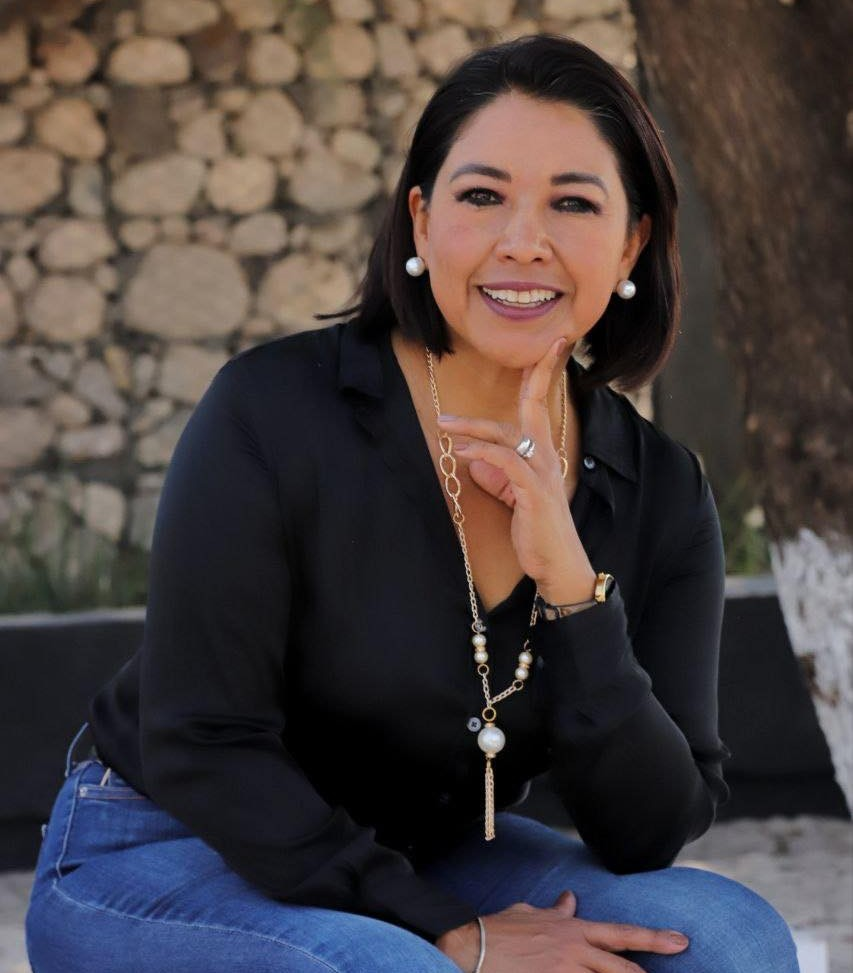
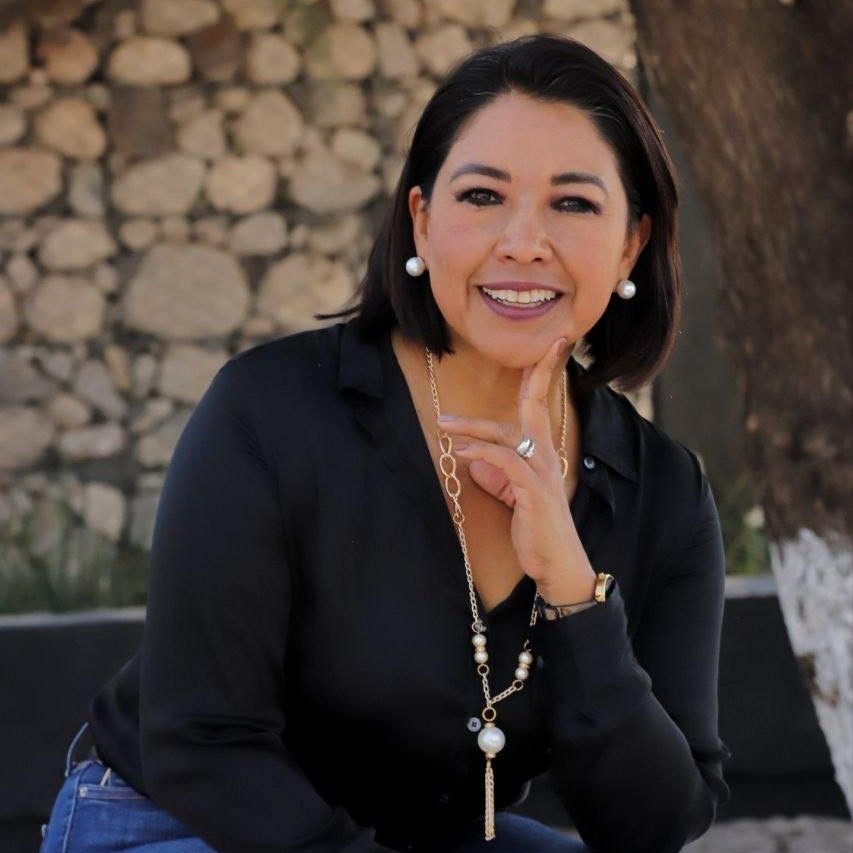
Updates

diff --git a/assets/index-CXXjEYgi.js b/assets/index-CXXjEYgi.js
@@ -14,7 +14,7 @@
 * @vue/runtime-dom v3.5.21
 * (c) 2018-present Yuxi (Evan) You and Vue contributors
 * @license MIT
-**/let Yn;const ui=typeof window<"u"&&window.trustedTypes;if(ui)try{Yn=ui.createPolicy("vue",{createHTML:e=>e})}catch{}const bo=Yn?e=>Yn.createHTML(e):e=>e,Ec="http://www.w3.org/2000/svg",Pc="http://www.w3.org/1998/Math/MathML",Je=typeof document<"u"?document:null,di=Je&&Je.createElement("template"),Oc={insert:(e,t,r)=>{t.insertBefore(e,r||null)},remove:e=>{const t=e.parentNode;t&&t.removeChild(e)},createElement:(e,t,r,n)=>{const a=t==="svg"?Je.createElementNS(Ec,e):t==="mathml"?Je.createElementNS(Pc,e):r?Je.createElement(e,{is:r}):Je.createElement(e);return e==="select"&&n&&n.multiple!=null&&a.setAttribute("multiple",n.multiple),a},createText:e=>Je.createTextNode(e),createComment:e=>Je.createComment(e),setText:(e,t)=>{e.nodeValue=t},setElementText:(e,t)=>{e.textContent=t},parentNode:e=>e.parentNode,nextSibling:e=>e.nextSibling,querySelector:e=>Je.querySelector(e),setScopeId(e,t){e.setAttribute(t,"")},insertStaticContent(e,t,r,n,a,i){const s=r?r.previousSibling:t.lastChild;if(a&&(a===i||a.nextSibling))for(;t.insertBefore(a.cloneNode(!0),r),!(a===i||!(a=a.nextSibling)););else{di.innerHTML=bo(n==="svg"?`<svg>${e}</svg>`:n==="mathml"?`<math>${e}</math>`:e);const o=di.content;if(n==="svg"||n==="mathml"){const l=o.firstChild;for(;l.firstChild;)o.appendChild(l.firstChild);o.removeChild(l)}t.insertBefore(o,r)}return[s?s.nextSibling:t.firstChild,r?r.previousSibling:t.lastChild]}},lt="transition",Gt="animation",dr=Symbol("_vtc"),yo={name:String,type:String,css:{type:Boolean,default:!0},duration:[String,Number,Object],enterFromClass:String,enterActiveClass:String,enterToClass:String,appearFromClass:String,appearActiveClass:String,appearToClass:String,leaveFromClass:String,leaveActiveClass:String,leaveToClass:String},Tc=ce({},Ds,yo),Ic=e=>(e.displayName="Transition",e.props=Tc,e),kc=Ic((e,{slots:t})=>vo(xf,Fc(e),t)),St=(e,t=[])=>{L(e)?e.forEach(r=>r(...t)):e&&e(...t)},hi=e=>e?L(e)?e.some(t=>t.length>1):e.length>1:!1;function Fc(e){const t={};for(const k in e)k in yo||(t[k]=e[k]);if(e.css===!1)return t;const{name:r="v",type:n,duration:a,enterFromClass:i=`${r}-enter-from`,enterActiveClass:s=`${r}-enter-active`,enterToClass:o=`${r}-enter-to`,appearFromClass:l=i,appearActiveClass:u=s,appearToClass:f=o,leaveFromClass:d=`${r}-leave-from`,leaveActiveClass:m=`${r}-leave-active`,leaveToClass:g=`${r}-leave-to`}=e,O=Nc(a),T=O&&O[0],H=O&&O[1],{onBeforeEnter:b,onEnter:S,onEnterCancelled:M,onLeave:I,onLeaveCancelled:D,onBeforeAppear:Z=b,onAppear:ae=S,onAppearCancelled:oe=M}=t,z=(k,te,he,Ke)=>{k._enterCancelled=Ke,At(k,te?f:o),At(k,te?u:s),he&&he()},Y=(k,te)=>{k._isLeaving=!1,At(k,d),At(k,g),At(k,m),te&&te()},re=k=>(te,he)=>{const Ke=k?ae:S,le=()=>z(te,k,he);St(Ke,[te,le]),pi(()=>{At(te,k?l:i),Ge(te,k?f:o),hi(Ke)||mi(te,n,T,le)})};return ce(t,{onBeforeEnter(k){St(b,[k]),Ge(k,i),Ge(k,s)},onBeforeAppear(k){St(Z,[k]),Ge(k,l),Ge(k,u)},onEnter:re(!1),onAppear:re(!0),onLeave(k,te){k._isLeaving=!0;const he=()=>Y(k,te);Ge(k,d),k._enterCancelled?(Ge(k,m),bi()):(bi(),Ge(k,m)),pi(()=>{k._isLeaving&&(At(k,d),Ge(k,g),hi(I)||mi(k,n,H,he))}),St(I,[k,he])},onEnterCancelled(k){z(k,!1,void 0,!0),St(M,[k])},onAppearCancelled(k){z(k,!0,void 0,!0),St(oe,[k])},onLeaveCancelled(k){Y(k),St(D,[k])}})}function Nc(e){if(e==null)return null;if(ee(e))return[Cn(e.enter),Cn(e.leave)];{const t=Cn(e);return[t,t]}}function Cn(e){return Tl(e)}function Ge(e,t){t.split(/\s+/).forEach(r=>r&&e.classList.add(r)),(e[dr]||(e[dr]=new Set)).add(t)}function At(e,t){t.split(/\s+/).forEach(n=>n&&e.classList.remove(n));const r=e[dr];r&&(r.delete(t),r.size||(e[dr]=void 0))}function pi(e){requestAnimationFrame(()=>{requestAnimationFrame(e)})}let Mc=0;function mi(e,t,r,n){const a=e._endId=++Mc,i=()=>{a===e._endId&&n()};if(r!=null)return setTimeout(i,r);const{type:s,timeout:o,propCount:l}=jc(e,t);if(!s)return n();const u=s+"end";let f=0;const d=()=>{e.removeEventListener(u,m),i()},m=g=>{g.target===e&&++f>=l&&d()};setTimeout(()=>{f<l&&d()},o+1),e.addEventListener(u,m)}function jc(e,t){const r=window.getComputedStyle(e),n=O=>(r[O]||"").split(", "),a=n(`${lt}Delay`),i=n(`${lt}Duration`),s=gi(a,i),o=n(`${Gt}Delay`),l=n(`${Gt}Duration`),u=gi(o,l);let f=null,d=0,m=0;t===lt?s>0&&(f=lt,d=s,m=i.length):t===Gt?u>0&&(f=Gt,d=u,m=l.length):(d=Math.max(s,u),f=d>0?s>u?lt:Gt:null,m=f?f===lt?i.length:l.length:0);const g=f===lt&&/\b(?:transform|all)(?:,|$)/.test(n(`${lt}Property`).toString());return{type:f,timeout:d,propCount:m,hasTransform:g}}function gi(e,t){for(;e.length<t.length;)e=e.concat(e);return Math.max(...t.map((r,n)=>vi(r)+vi(e[n])))}function vi(e){return e==="auto"?0:Number(e.slice(0,-1).replace(",","."))*1e3}function bi(){return document.body.offsetHeight}function Lc(e,t,r){const n=e[dr];n&&(t=(t?[t,...n]:[...n]).join(" ")),t==null?e.removeAttribute("class"):r?e.setAttribute("class",t):e.className=t}const yi=Symbol("_vod"),$c=Symbol("_vsh"),Rc=Symbol(""),Dc=/(?:^|;)\s*display\s*:/;function zc(e,t,r){const n=e.style,a=ie(r);let i=!1;if(r&&!a){if(t)if(ie(t))for(const s of t.split(";")){const o=s.slice(0,s.indexOf(":")).trim();r[o]==null&&Fr(n,o,"")}else for(const s in t)r[s]==null&&Fr(n,s,"");for(const s in r)s==="display"&&(i=!0),Fr(n,s,r[s])}else if(a){if(t!==r){const s=n[Rc];s&&(r+=";"+s),n.cssText=r,i=Dc.test(r)}}else t&&e.removeAttribute("style");yi in e&&(e[yi]=i?n.display:"",e[$c]&&(n.display="none"))}const xi=/\s*!important$/;function Fr(e,t,r){if(L(r))r.forEach(n=>Fr(e,t,n));else if(r==null&&(r=""),t.startsWith("--"))e.setProperty(t,r);else{const n=Hc(e,t);xi.test(r)?e.setProperty(kt(n),r.replace(xi,""),"important"):e[n]=r}}const _i=["Webkit","Moz","ms"],En={};function Hc(e,t){const r=En[t];if(r)return r;let n=ke(t);if(n!=="filter"&&n in e)return En[t]=n;n=Zr(n);for(let a=0;a<_i.length;a++){const i=_i[a]+n;if(i in e)return En[t]=i}return t}const wi="http://www.w3.org/1999/xlink";function Si(e,t,r,n,a,i=jl(t)){n&&t.startsWith("xlink:")?r==null?e.removeAttributeNS(wi,t.slice(6,t.length)):e.setAttributeNS(wi,t,r):r==null||i&&!hs(r)?e.removeAttribute(t):e.setAttribute(t,i?"":bt(r)?String(r):r)}function Ai(e,t,r,n,a){if(t==="innerHTML"||t==="textContent"){r!=null&&(e[t]=t==="innerHTML"?bo(r):r);return}const i=e.tagName;if(t==="value"&&i!=="PROGRESS"&&!i.includes("-")){const o=i==="OPTION"?e.getAttribute("value")||"":e.value,l=r==null?e.type==="checkbox"?"on":"":String(r);(o!==l||!("_value"in e))&&(e.value=l),r==null&&e.removeAttribute(t),e._value=r;return}let s=!1;if(r===""||r==null){const o=typeof e[t];o==="boolean"?r=hs(r):r==null&&o==="string"?(r="",s=!0):o==="number"&&(r=0,s=!0)}try{e[t]=r}catch{}s&&e.removeAttribute(a||t)}function Wc(e,t,r,n){e.addEventListener(t,r,n)}function Bc(e,t,r,n){e.removeEventListener(t,r,n)}const Ci=Symbol("_vei");function Uc(e,t,r,n,a=null){const i=e[Ci]||(e[Ci]={}),s=i[t];if(n&&s)s.value=n;else{const[o,l]=Vc(t);if(n){const u=i[t]=Gc(n,a);Wc(e,o,u,l)}else s&&(Bc(e,o,s,l),i[t]=void 0)}}const Ei=/(?:Once|Passive|Capture)$/;function Vc(e){let t;if(Ei.test(e)){t={};let n;for(;n=e.match(Ei);)e=e.slice(0,e.length-n[0].length),t[n[0].toLowerCase()]=!0}return[e[2]===":"?e.slice(3):kt(e.slice(2)),t]}let Pn=0;const Kc=Promise.resolve(),Yc=()=>Pn||(Kc.then(()=>Pn=0),Pn=Date.now());function Gc(e,t){const r=n=>{if(!n._vts)n._vts=Date.now();else if(n._vts<=r.attached)return;je(qc(n,r.value),t,5,[n])};return r.value=e,r.attached=Yc(),r}function qc(e,t){if(L(t)){const r=e.stopImmediatePropagation;return e.stopImmediatePropagation=()=>{r.call(e),e._stopped=!0},t.map(n=>a=>!a._stopped&&n&&n(a))}else return t}const Pi=e=>e.charCodeAt(0)===111&&e.charCodeAt(1)===110&&e.charCodeAt(2)>96&&e.charCodeAt(2)<123,Xc=(e,t,r,n,a,i)=>{const s=a==="svg";t==="class"?Lc(e,n,s):t==="style"?zc(e,r,n):qr(t)?ua(t)||Uc(e,t,r,n,i):(t[0]==="."?(t=t.slice(1),!0):t[0]==="^"?(t=t.slice(1),!1):Jc(e,t,n,s))?(Ai(e,t,n),!e.tagName.includes("-")&&(t==="value"||t==="checked"||t==="selected")&&Si(e,t,n,s,i,t!=="value")):e._isVueCE&&(/[A-Z]/.test(t)||!ie(n))?Ai(e,ke(t),n,i,t):(t==="true-value"?e._trueValue=n:t==="false-value"&&(e._falseValue=n),Si(e,t,n,s))};function Jc(e,t,r,n){if(n)return!!(t==="innerHTML"||t==="textContent"||t in e&&Pi(t)&&R(r));if(t==="spellcheck"||t==="draggable"||t==="translate"||t==="autocorrect"||t==="form"||t==="list"&&e.tagName==="INPUT"||t==="type"&&e.tagName==="TEXTAREA")return!1;if(t==="width"||t==="height"){const a=e.tagName;if(a==="IMG"||a==="VIDEO"||a==="CANVAS"||a==="SOURCE")return!1}return Pi(t)&&ie(r)?!1:t in e}const Zc=ce({patchProp:Xc},Oc);let Oi;function Qc(){return Oi||(Oi=qf(Zc))}const eu=((...e)=>{const t=Qc().createApp(...e),{mount:r}=t;return t.mount=n=>{const a=ru(n);if(!a)return;const i=t._component;!R(i)&&!i.render&&!i.template&&(i.template=a.innerHTML),a.nodeType===1&&(a.textContent="");const s=r(a,!1,tu(a));return a instanceof Element&&(a.removeAttribute("v-cloak"),a.setAttribute("data-v-app","")),s},t});function tu(e){if(e instanceof SVGElement)return"svg";if(typeof MathMLElement=="function"&&e instanceof MathMLElement)return"mathml"}function ru(e){return ie(e)?document.querySelector(e):e}const nu={class:"bg-white text-(--primary) p-4 font-italic flex flex-col-2 items-center md:flex-row md:justify-between md:px-20 xl:px-30"},au={class:"text-xl flex w-full align-center text-(--primary) justify-end"},iu={class:"hidden md:block"},su={class:"flex flex-row space-x-6"},ou=["href"],lu={class:"md:hidden flex items-center gap-4"},fu={key:"close",class:"text-2xl text-amber-50"},cu={key:"open",class:"text-2xl z-30"},uu={class:"flex flex-col space-y-4"},du=["href","onClick"],hu=Sa({__name:"header",setup(e){const t=Qe(()=>[{name:"Inicio",href:"#home"},{name:"Acerca de mí",href:"#about"},{name:"Mi Actualidad",href:"#social"},{name:"Contacta me",href:"#contact"}]),r=Pr(!1),n=a=>{r.value=!1;const i=document.querySelector(a);i&&i.scrollIntoView({behavior:"smooth"})};return(a,i)=>{const s=Ys("font-awesome-icon");return qe(),Xe("header",nu,[i[1]||(i[1]=se("div",{class:"flex w-full items-center"},[se("h1",{class:"text-xl md:text-2xl font-bold"},"Erika Díaz Villalón")],-1)),se("div",au,[se("nav",iu,[se("ul",su,[(qe(!0),Xe(Ce,null,ei(t.value,o=>(qe(),Xe("li",{key:o.name,class:"xl:text-lg text-xs"},[se("a",{href:o.href,class:"block ease-linear transition duration-300 hover:text-[var(--accent)] font-inter font-bold italic underline"},Ln(o.name),9,ou)]))),128))])]),se("div",lu,[se("button",{type:"button",class:"block focus:outline-none z-30",onClick:i[0]||(i[0]=o=>r.value=!r.value)},[fe(kc,{name:"fade",mode:"out-in"},{default:$s(()=>[r.value?(qe(),Xe("span",fu,[fe(s,{icon:"fa-solid fa-xmark",size:"2x"})])):(qe(),Xe("span",cu,[fe(s,{icon:"fa-solid fa-bars text-white",size:"2x"})]))]),_:1})])]),se("nav",{class:tn(["fixed inset-0 z-20 flex flex-col items-center justify-center bg-[#000000]/90 md:hidden",r.value?"block":"hidden"])},[se("ul",uu,[(qe(!0),Xe(Ce,null,ei(t.value,o=>(qe(),Xe("li",{key:o.name,class:"text-lg text-[var(--background)]"},[se("a",{href:o.href,class:"block ease-linear text-2xl transition duration-300 hover:text-[var(--accent)]",onClick:l=>n(o.href)},Ln(o.name),9,du)]))),128))])],2)])])}}}),fn=(e,t)=>{const r=e.__vccOpts||e;for(const[n,a]of t)r[n]=a;return r},pu=fn(hu,[["__scopeId","data-v-46d65932"]]),mu="/Erika-website/Erika.jpg",gu={},vu={class:"flex flex-col justify-center items-center text-center text-[var(--text)] parallax"},bu={class:"bg-white rounded-lg shadow-lg align-center flex flex-col gap-3 p-4 m-8 md:flex-row md:gap-6 md:mb-0 xl:grid xl:grid-cols-2 xl:p-8 xl:w-6/10 xl:h-7/10"},yu={class:"flex flex-col justify-center text-(--primary) text-left p-2"},xu={class:"grid grid-cols-3 mt-6 justify-start items-center gap-1 w-2/4 px-1"};function _u(e,t){const r=Ys("font-awesome-icon");return qe(),Xe("section",vu,[se("div",bu,[t[2]||(t[2]=se("div",{class:"flex justify-center items-center"},[se("img",{src:mu,alt:"Foto de Erika",class:"h-8/10 object-cover"})],-1)),se("div",yu,[t[0]||(t[0]=ho('<h1 class="text-2xl md:text-4xl font-bold mb-0 md:mb-4" data-v-32cc1380>Erika Díaz Villalón</h1><p class="text-lg md:text-3xl" data-v-32cc1380>Abogada</p><p class="text-2xl md:text-5xl font-bold" data-v-32cc1380>Líder social</p><div class="h-1 my-4 bg-(--primary) w-8/10 rounded-lg" data-v-32cc1380></div><p class="text-sm md:text-md text-(--text)" data-v-32cc1380> Las cosas lindas que me están pasando las acepto y agradezco con amor </p>',5)),se("div",xu,[fe(r,{icon:"fa-brands fa-square-facebook",size:"2x",class:"text-(--primary) hover:text-[var(--accent)] cursor-pointer transition duration-300 ease-linear"}),fe(r,{icon:"fa-brands fa-instagram",size:"2x",class:"text-(--primary) hover:text-[var(--accent)] cursor-pointer transition duration-300 ease-linear"}),fe(r,{icon:"fa-brands fa-x-twitter",size:"2x",class:"text-(--primary) hover:text-[var(--accent)] cursor-pointer transition duration-300 ease-linear"})]),t[1]||(t[1]=se("p",{class:"mt-6 text-sm md:text-2xl text-(--text) underline font-inter italic cursor-pointer hover:text-[var(--accent)] transition duration-300 ease-linear"}," Acerca de mi ",-1))])])])}const wu=fn(gu,[["render",_u],["__scopeId","data-v-32cc1380"]]),Su={};function Au(e,t){return t[0]||(t[0]=ho('<section class="w-full h-120 flex flex-col md:flex-row justify-center items-center text-[var(--text)] gap-0 text-left" data-v-d59cb76f><div class="bg-(--primary) text-white w-full h-full flex items-center justify-center" data-v-d59cb76f><div class="w-1/2" data-v-d59cb76f><p class="w-full font-light" data-v-d59cb76f>Sobre mi</p><h2 class="w-full text-3xl font-bold underline hover:text-gray-300 transition duration-300" data-v-d59cb76f>Biografía &gt;</h2></div></div><div class="bg-(--secondary) text-white w-full h-full flex items-center justify-center" data-v-d59cb76f><div class="w-1/2" data-v-d59cb76f><p class="w-full font-light" data-v-d59cb76f>Trayectoria y</p><h2 class="w-full text-3xl font-bold underline hover:text-gray-300 transition duration-300" data-v-d59cb76f>Profesional &gt;</h2></div></div><div class="bg-(--accent) text-white w-full h-full flex items-center justify-center" data-v-d59cb76f><div class="w-1/2" data-v-d59cb76f><p class="w-full font-light" data-v-d59cb76f>Publicaciones y</p><h2 class="w-full text-3xl font-bold underline hover:text-gray-300 transition duration-300" data-v-d59cb76f>Medios &gt;</h2></div></div></section><section class="h-130 w-full parallax md:bg-center bg-position-[bottom:30%]" data-v-d59cb76f></section>',2))}const Cu=fn(Su,[["render",Au],["__scopeId","data-v-d59cb76f"]]),Eu=Sa({__name:"App",setup(e){const t=Pr(null),r=Pr(null),n=Pr(0),a=Qe(()=>({height:`calc(100vh - ${n.value}px)`})),i=()=>{t.value&&(n.value=t.value.$el.offsetHeight)};return Aa(()=>{i(),window.addEventListener("resize",i)}),Ca(()=>{window.removeEventListener("resize",i)}),(s,o)=>(qe(),Xe(Ce,null,[fe(pu,{ref_key:"HeaderRef",ref:t},null,512),fe(wu,{ref_key:"HeroSectionRef",ref:r,style:en(a.value)},null,8,["style"]),fe(Cu)],64))}}),Pu=fn(Eu,[["__scopeId","data-v-4a465e86"]]);/*!
+**/let Yn;const ui=typeof window<"u"&&window.trustedTypes;if(ui)try{Yn=ui.createPolicy("vue",{createHTML:e=>e})}catch{}const bo=Yn?e=>Yn.createHTML(e):e=>e,Ec="http://www.w3.org/2000/svg",Pc="http://www.w3.org/1998/Math/MathML",Je=typeof document<"u"?document:null,di=Je&&Je.createElement("template"),Oc={insert:(e,t,r)=>{t.insertBefore(e,r||null)},remove:e=>{const t=e.parentNode;t&&t.removeChild(e)},createElement:(e,t,r,n)=>{const a=t==="svg"?Je.createElementNS(Ec,e):t==="mathml"?Je.createElementNS(Pc,e):r?Je.createElement(e,{is:r}):Je.createElement(e);return e==="select"&&n&&n.multiple!=null&&a.setAttribute("multiple",n.multiple),a},createText:e=>Je.createTextNode(e),createComment:e=>Je.createComment(e),setText:(e,t)=>{e.nodeValue=t},setElementText:(e,t)=>{e.textContent=t},parentNode:e=>e.parentNode,nextSibling:e=>e.nextSibling,querySelector:e=>Je.querySelector(e),setScopeId(e,t){e.setAttribute(t,"")},insertStaticContent(e,t,r,n,a,i){const s=r?r.previousSibling:t.lastChild;if(a&&(a===i||a.nextSibling))for(;t.insertBefore(a.cloneNode(!0),r),!(a===i||!(a=a.nextSibling)););else{di.innerHTML=bo(n==="svg"?`<svg>${e}</svg>`:n==="mathml"?`<math>${e}</math>`:e);const o=di.content;if(n==="svg"||n==="mathml"){const l=o.firstChild;for(;l.firstChild;)o.appendChild(l.firstChild);o.removeChild(l)}t.insertBefore(o,r)}return[s?s.nextSibling:t.firstChild,r?r.previousSibling:t.lastChild]}},lt="transition",Gt="animation",dr=Symbol("_vtc"),yo={name:String,type:String,css:{type:Boolean,default:!0},duration:[String,Number,Object],enterFromClass:String,enterActiveClass:String,enterToClass:String,appearFromClass:String,appearActiveClass:String,appearToClass:String,leaveFromClass:String,leaveActiveClass:String,leaveToClass:String},Tc=ce({},Ds,yo),Ic=e=>(e.displayName="Transition",e.props=Tc,e),kc=Ic((e,{slots:t})=>vo(xf,Fc(e),t)),St=(e,t=[])=>{L(e)?e.forEach(r=>r(...t)):e&&e(...t)},hi=e=>e?L(e)?e.some(t=>t.length>1):e.length>1:!1;function Fc(e){const t={};for(const k in e)k in yo||(t[k]=e[k]);if(e.css===!1)return t;const{name:r="v",type:n,duration:a,enterFromClass:i=`${r}-enter-from`,enterActiveClass:s=`${r}-enter-active`,enterToClass:o=`${r}-enter-to`,appearFromClass:l=i,appearActiveClass:u=s,appearToClass:f=o,leaveFromClass:d=`${r}-leave-from`,leaveActiveClass:m=`${r}-leave-active`,leaveToClass:g=`${r}-leave-to`}=e,O=Nc(a),T=O&&O[0],H=O&&O[1],{onBeforeEnter:b,onEnter:S,onEnterCancelled:M,onLeave:I,onLeaveCancelled:D,onBeforeAppear:Z=b,onAppear:ae=S,onAppearCancelled:oe=M}=t,z=(k,te,he,Ke)=>{k._enterCancelled=Ke,At(k,te?f:o),At(k,te?u:s),he&&he()},Y=(k,te)=>{k._isLeaving=!1,At(k,d),At(k,g),At(k,m),te&&te()},re=k=>(te,he)=>{const Ke=k?ae:S,le=()=>z(te,k,he);St(Ke,[te,le]),pi(()=>{At(te,k?l:i),Ge(te,k?f:o),hi(Ke)||mi(te,n,T,le)})};return ce(t,{onBeforeEnter(k){St(b,[k]),Ge(k,i),Ge(k,s)},onBeforeAppear(k){St(Z,[k]),Ge(k,l),Ge(k,u)},onEnter:re(!1),onAppear:re(!0),onLeave(k,te){k._isLeaving=!0;const he=()=>Y(k,te);Ge(k,d),k._enterCancelled?(Ge(k,m),bi()):(bi(),Ge(k,m)),pi(()=>{k._isLeaving&&(At(k,d),Ge(k,g),hi(I)||mi(k,n,H,he))}),St(I,[k,he])},onEnterCancelled(k){z(k,!1,void 0,!0),St(M,[k])},onAppearCancelled(k){z(k,!0,void 0,!0),St(oe,[k])},onLeaveCancelled(k){Y(k),St(D,[k])}})}function Nc(e){if(e==null)return null;if(ee(e))return[Cn(e.enter),Cn(e.leave)];{const t=Cn(e);return[t,t]}}function Cn(e){return Tl(e)}function Ge(e,t){t.split(/\s+/).forEach(r=>r&&e.classList.add(r)),(e[dr]||(e[dr]=new Set)).add(t)}function At(e,t){t.split(/\s+/).forEach(n=>n&&e.classList.remove(n));const r=e[dr];r&&(r.delete(t),r.size||(e[dr]=void 0))}function pi(e){requestAnimationFrame(()=>{requestAnimationFrame(e)})}let Mc=0;function mi(e,t,r,n){const a=e._endId=++Mc,i=()=>{a===e._endId&&n()};if(r!=null)return setTimeout(i,r);const{type:s,timeout:o,propCount:l}=jc(e,t);if(!s)return n();const u=s+"end";let f=0;const d=()=>{e.removeEventListener(u,m),i()},m=g=>{g.target===e&&++f>=l&&d()};setTimeout(()=>{f<l&&d()},o+1),e.addEventListener(u,m)}function jc(e,t){const r=window.getComputedStyle(e),n=O=>(r[O]||"").split(", "),a=n(`${lt}Delay`),i=n(`${lt}Duration`),s=gi(a,i),o=n(`${Gt}Delay`),l=n(`${Gt}Duration`),u=gi(o,l);let f=null,d=0,m=0;t===lt?s>0&&(f=lt,d=s,m=i.length):t===Gt?u>0&&(f=Gt,d=u,m=l.length):(d=Math.max(s,u),f=d>0?s>u?lt:Gt:null,m=f?f===lt?i.length:l.length:0);const g=f===lt&&/\b(?:transform|all)(?:,|$)/.test(n(`${lt}Property`).toString());return{type:f,timeout:d,propCount:m,hasTransform:g}}function gi(e,t){for(;e.length<t.length;)e=e.concat(e);return Math.max(...t.map((r,n)=>vi(r)+vi(e[n])))}function vi(e){return e==="auto"?0:Number(e.slice(0,-1).replace(",","."))*1e3}function bi(){return document.body.offsetHeight}function Lc(e,t,r){const n=e[dr];n&&(t=(t?[t,...n]:[...n]).join(" ")),t==null?e.removeAttribute("class"):r?e.setAttribute("class",t):e.className=t}const yi=Symbol("_vod"),$c=Symbol("_vsh"),Rc=Symbol(""),Dc=/(?:^|;)\s*display\s*:/;function zc(e,t,r){const n=e.style,a=ie(r);let i=!1;if(r&&!a){if(t)if(ie(t))for(const s of t.split(";")){const o=s.slice(0,s.indexOf(":")).trim();r[o]==null&&Fr(n,o,"")}else for(const s in t)r[s]==null&&Fr(n,s,"");for(const s in r)s==="display"&&(i=!0),Fr(n,s,r[s])}else if(a){if(t!==r){const s=n[Rc];s&&(r+=";"+s),n.cssText=r,i=Dc.test(r)}}else t&&e.removeAttribute("style");yi in e&&(e[yi]=i?n.display:"",e[$c]&&(n.display="none"))}const xi=/\s*!important$/;function Fr(e,t,r){if(L(r))r.forEach(n=>Fr(e,t,n));else if(r==null&&(r=""),t.startsWith("--"))e.setProperty(t,r);else{const n=Hc(e,t);xi.test(r)?e.setProperty(kt(n),r.replace(xi,""),"important"):e[n]=r}}const _i=["Webkit","Moz","ms"],En={};function Hc(e,t){const r=En[t];if(r)return r;let n=ke(t);if(n!=="filter"&&n in e)return En[t]=n;n=Zr(n);for(let a=0;a<_i.length;a++){const i=_i[a]+n;if(i in e)return En[t]=i}return t}const wi="http://www.w3.org/1999/xlink";function Si(e,t,r,n,a,i=jl(t)){n&&t.startsWith("xlink:")?r==null?e.removeAttributeNS(wi,t.slice(6,t.length)):e.setAttributeNS(wi,t,r):r==null||i&&!hs(r)?e.removeAttribute(t):e.setAttribute(t,i?"":bt(r)?String(r):r)}function Ai(e,t,r,n,a){if(t==="innerHTML"||t==="textContent"){r!=null&&(e[t]=t==="innerHTML"?bo(r):r);return}const i=e.tagName;if(t==="value"&&i!=="PROGRESS"&&!i.includes("-")){const o=i==="OPTION"?e.getAttribute("value")||"":e.value,l=r==null?e.type==="checkbox"?"on":"":String(r);(o!==l||!("_value"in e))&&(e.value=l),r==null&&e.removeAttribute(t),e._value=r;return}let s=!1;if(r===""||r==null){const o=typeof e[t];o==="boolean"?r=hs(r):r==null&&o==="string"?(r="",s=!0):o==="number"&&(r=0,s=!0)}try{e[t]=r}catch{}s&&e.removeAttribute(a||t)}function Wc(e,t,r,n){e.addEventListener(t,r,n)}function Bc(e,t,r,n){e.removeEventListener(t,r,n)}const Ci=Symbol("_vei");function Uc(e,t,r,n,a=null){const i=e[Ci]||(e[Ci]={}),s=i[t];if(n&&s)s.value=n;else{const[o,l]=Vc(t);if(n){const u=i[t]=Gc(n,a);Wc(e,o,u,l)}else s&&(Bc(e,o,s,l),i[t]=void 0)}}const Ei=/(?:Once|Passive|Capture)$/;function Vc(e){let t;if(Ei.test(e)){t={};let n;for(;n=e.match(Ei);)e=e.slice(0,e.length-n[0].length),t[n[0].toLowerCase()]=!0}return[e[2]===":"?e.slice(3):kt(e.slice(2)),t]}let Pn=0;const Kc=Promise.resolve(),Yc=()=>Pn||(Kc.then(()=>Pn=0),Pn=Date.now());function Gc(e,t){const r=n=>{if(!n._vts)n._vts=Date.now();else if(n._vts<=r.attached)return;je(qc(n,r.value),t,5,[n])};return r.value=e,r.attached=Yc(),r}function qc(e,t){if(L(t)){const r=e.stopImmediatePropagation;return e.stopImmediatePropagation=()=>{r.call(e),e._stopped=!0},t.map(n=>a=>!a._stopped&&n&&n(a))}else return t}const Pi=e=>e.charCodeAt(0)===111&&e.charCodeAt(1)===110&&e.charCodeAt(2)>96&&e.charCodeAt(2)<123,Xc=(e,t,r,n,a,i)=>{const s=a==="svg";t==="class"?Lc(e,n,s):t==="style"?zc(e,r,n):qr(t)?ua(t)||Uc(e,t,r,n,i):(t[0]==="."?(t=t.slice(1),!0):t[0]==="^"?(t=t.slice(1),!1):Jc(e,t,n,s))?(Ai(e,t,n),!e.tagName.includes("-")&&(t==="value"||t==="checked"||t==="selected")&&Si(e,t,n,s,i,t!=="value")):e._isVueCE&&(/[A-Z]/.test(t)||!ie(n))?Ai(e,ke(t),n,i,t):(t==="true-value"?e._trueValue=n:t==="false-value"&&(e._falseValue=n),Si(e,t,n,s))};function Jc(e,t,r,n){if(n)return!!(t==="innerHTML"||t==="textContent"||t in e&&Pi(t)&&R(r));if(t==="spellcheck"||t==="draggable"||t==="translate"||t==="autocorrect"||t==="form"||t==="list"&&e.tagName==="INPUT"||t==="type"&&e.tagName==="TEXTAREA")return!1;if(t==="width"||t==="height"){const a=e.tagName;if(a==="IMG"||a==="VIDEO"||a==="CANVAS"||a==="SOURCE")return!1}return Pi(t)&&ie(r)?!1:t in e}const Zc=ce({patchProp:Xc},Oc);let Oi;function Qc(){return Oi||(Oi=qf(Zc))}const eu=((...e)=>{const t=Qc().createApp(...e),{mount:r}=t;return t.mount=n=>{const a=ru(n);if(!a)return;const i=t._component;!R(i)&&!i.render&&!i.template&&(i.template=a.innerHTML),a.nodeType===1&&(a.textContent="");const s=r(a,!1,tu(a));return a instanceof Element&&(a.removeAttribute("v-cloak"),a.setAttribute("data-v-app","")),s},t});function tu(e){if(e instanceof SVGElement)return"svg";if(typeof MathMLElement=="function"&&e instanceof MathMLElement)return"mathml"}function ru(e){return ie(e)?document.querySelector(e):e}const nu={class:"bg-white text-(--primary) p-4 font-italic flex flex-col-2 items-center md:flex-row md:justify-between md:px-20 xl:px-30"},au={class:"text-xl flex w-full align-center text-(--primary) justify-end"},iu={class:"hidden md:block"},su={class:"flex flex-row space-x-6"},ou=["href"],lu={class:"md:hidden flex items-center gap-4"},fu={key:"close",class:"text-2xl text-amber-50"},cu={key:"open",class:"text-2xl z-30"},uu={class:"flex flex-col space-y-4"},du=["href","onClick"],hu=Sa({__name:"header",setup(e){const t=Qe(()=>[{name:"Inicio",href:"#home"},{name:"Acerca de mí",href:"#about"},{name:"Mi Actualidad",href:"#social"},{name:"Contacta me",href:"#contact"}]),r=Pr(!1),n=a=>{r.value=!1;const i=document.querySelector(a);i&&i.scrollIntoView({behavior:"smooth"})};return(a,i)=>{const s=Ys("font-awesome-icon");return qe(),Xe("header",nu,[i[1]||(i[1]=se("div",{class:"flex w-full items-center"},[se("h1",{class:"text-xl md:text-2xl font-bold"},"Erika Díaz Villalón")],-1)),se("div",au,[se("nav",iu,[se("ul",su,[(qe(!0),Xe(Ce,null,ei(t.value,o=>(qe(),Xe("li",{key:o.name,class:"xl:text-lg text-xs"},[se("a",{href:o.href,class:"block ease-linear transition duration-300 hover:text-[var(--accent)] font-inter font-bold italic underline"},Ln(o.name),9,ou)]))),128))])]),se("div",lu,[se("button",{type:"button",class:"block focus:outline-none z-30",onClick:i[0]||(i[0]=o=>r.value=!r.value)},[fe(kc,{name:"fade",mode:"out-in"},{default:$s(()=>[r.value?(qe(),Xe("span",fu,[fe(s,{icon:"fa-solid fa-xmark",size:"2x"})])):(qe(),Xe("span",cu,[fe(s,{icon:"fa-solid fa-bars text-white",size:"2x"})]))]),_:1})])]),se("nav",{class:tn(["fixed inset-0 z-20 flex flex-col items-center justify-center bg-[#000000]/90 md:hidden",r.value?"block":"hidden"])},[se("ul",uu,[(qe(!0),Xe(Ce,null,ei(t.value,o=>(qe(),Xe("li",{key:o.name,class:"text-lg text-[var(--background)]"},[se("a",{href:o.href,class:"block ease-linear text-2xl transition duration-300 hover:text-[var(--accent)]",onClick:l=>n(o.href)},Ln(o.name),9,du)]))),128))])],2)])])}}}),fn=(e,t)=>{const r=e.__vccOpts||e;for(const[n,a]of t)r[n]=a;return r},pu=fn(hu,[["__scopeId","data-v-46d65932"]]),mu="/Erika-website/Erika.jpg",gu={},vu={class:"flex flex-col justify-center items-center text-center text-[var(--text)] p-4 parallax"},bu={class:"bg-white shadow-lg items-center justify-center rounded-lg flex flex-col md:flex-row gap-4 p-6 py-6 md:p-8 xl:h-fit xl:w-3/5 md:h-fit md:w-8/10 sm:h-8/10 sm:w-6/10 h-fit w-full"},yu={class:"flex flex-col flex-1 justify-center text-[var(--primary)] text-left gap-1 md:gap-4 px-4 h-full"},xu={class:"flex justify-start items-center gap-4 m-1 text-center"};function _u(e,t){const r=Ys("font-awesome-icon");return qe(),Xe("section",vu,[se("div",bu,[t[2]||(t[2]=se("div",{class:"flex-1 flex h-fit justify-center items-center"},[se("img",{src:mu,alt:"Foto de Erika",class:"object-contain w-56 md:w-64 xl:w-full xl:h-full"})],-1)),se("div",yu,[t[0]||(t[0]=ho('<h1 class="text-xl md:text-4xl font-bold mb-0" data-v-1942facc>Erika Díaz Villalón</h1><p class="text-lg md:text-3xl text-[var(--text)]" data-v-1942facc>Abogada</p><p class="text-2xl md:text-5xl font-bold" data-v-1942facc>Líder social</p><div class="h-1 bg-[var(--primary)] w-8/10" data-v-1942facc></div><p class="text-xs md:text-base text-[var(--text)]" data-v-1942facc> Las cosas lindas que me están pasando las acepto y agradezco con amor </p>',5)),se("div",xu,[fe(r,{icon:"fa-brands fa-square-facebook",size:"2x",class:"text-[var(--primary)] hover:text-[var(--accent)] cursor-pointer transition duration-300 ease-linear"}),fe(r,{icon:"fa-brands fa-instagram",size:"2x",class:"text-[var(--primary)] hover:text-[var(--accent)] cursor-pointer transition duration-300 ease-linear"}),fe(r,{icon:"fa-brands fa-x-twitter",size:"2x",class:"text-[var(--primary)] hover:text-[var(--accent)] cursor-pointer transition duration-300 ease-linear"})]),t[1]||(t[1]=se("p",{class:"text-base md:text-2xl text-[var(--text)] underline font-inter italic cursor-pointer hover:text-[var(--accent)] transition duration-300 ease-linear"}," Acerca de mi ",-1))])])])}const wu=fn(gu,[["render",_u],["__scopeId","data-v-1942facc"]]),Su={};function Au(e,t){return t[0]||(t[0]=ho('<section class="w-full h-120 flex flex-col md:flex-row justify-center items-center text-[var(--text)] gap-0 text-left" data-v-d59cb76f><div class="bg-(--primary) text-white w-full h-full flex items-center justify-center" data-v-d59cb76f><div class="w-1/2" data-v-d59cb76f><p class="w-full font-light" data-v-d59cb76f>Sobre mi</p><h2 class="w-full text-3xl font-bold underline hover:text-gray-300 transition duration-300" data-v-d59cb76f>Biografía &gt;</h2></div></div><div class="bg-(--secondary) text-white w-full h-full flex items-center justify-center" data-v-d59cb76f><div class="w-1/2" data-v-d59cb76f><p class="w-full font-light" data-v-d59cb76f>Trayectoria y</p><h2 class="w-full text-3xl font-bold underline hover:text-gray-300 transition duration-300" data-v-d59cb76f>Profesional &gt;</h2></div></div><div class="bg-(--accent) text-white w-full h-full flex items-center justify-center" data-v-d59cb76f><div class="w-1/2" data-v-d59cb76f><p class="w-full font-light" data-v-d59cb76f>Publicaciones y</p><h2 class="w-full text-3xl font-bold underline hover:text-gray-300 transition duration-300" data-v-d59cb76f>Medios &gt;</h2></div></div></section><section class="h-130 w-full parallax md:bg-center bg-position-[bottom:30%]" data-v-d59cb76f></section>',2))}const Cu=fn(Su,[["render",Au],["__scopeId","data-v-d59cb76f"]]),Eu=Sa({__name:"App",setup(e){const t=Pr(null),r=Pr(null),n=Pr(0),a=Qe(()=>({height:`calc(100vh - ${n.value}px)`,"margin-top":`${n.value}px`})),i=()=>{t.value&&(n.value=t.value.$el.offsetHeight)};return Aa(()=>{i(),window.addEventListener("resize",i)}),Ca(()=>{window.removeEventListener("resize",i)}),(s,o)=>(qe(),Xe(Ce,null,[fe(pu,{ref_key:"HeaderRef",ref:t,class:"header"},null,512),fe(wu,{ref_key:"HeroSectionRef",ref:r,style:en(a.value)},null,8,["style"]),fe(Cu)],64))}}),Pu=fn(Eu,[["__scopeId","data-v-bf862010"]]);/*!
  * Font Awesome Free 7.0.1 by @fontawesome - https://fontawesome.com
  * License - https://fontawesome.com/license/free (Icons: CC BY 4.0, Fonts: SIL OFL 1.1, Code: MIT License)
  * Copyright 2025 Fonticons, Inc.

diff --git a/assets/index-CyH0TvZI.css b/assets/index-CyH0TvZI.css
@@ -1,0 +1,1 @@
+@import"https://fonts.googleapis.com/css2?family=Inter:ital,opsz,wght@0,14..32,100..900;1,14..32,100..900&display=swap";@layer components;/*! tailwindcss v4.1.13 | MIT License | https://tailwindcss.com */@layer properties{@supports (((-webkit-hyphens:none)) and (not (margin-trim:inline))) or ((-moz-orient:inline) and (not (color:rgb(from red r g b)))){*,:before,:after,::backdrop{--tw-rotate-x:initial;--tw-rotate-y:initial;--tw-rotate-z:initial;--tw-skew-x:initial;--tw-skew-y:initial;--tw-space-y-reverse:0;--tw-space-x-reverse:0;--tw-font-weight:initial;--tw-shadow:0 0 #0000;--tw-shadow-color:initial;--tw-shadow-alpha:100%;--tw-inset-shadow:0 0 #0000;--tw-inset-shadow-color:initial;--tw-inset-shadow-alpha:100%;--tw-ring-color:initial;--tw-ring-shadow:0 0 #0000;--tw-inset-ring-color:initial;--tw-inset-ring-shadow:0 0 #0000;--tw-ring-inset:initial;--tw-ring-offset-width:0px;--tw-ring-offset-color:#fff;--tw-ring-offset-shadow:0 0 #0000;--tw-duration:initial;--tw-ease:initial}}}@layer theme{:root,:host{--font-sans:ui-sans-serif,system-ui,sans-serif,"Apple Color Emoji","Segoe UI Emoji","Segoe UI Symbol","Noto Color Emoji";--font-mono:ui-monospace,SFMono-Regular,Menlo,Monaco,Consolas,"Liberation Mono","Courier New",monospace;--color-amber-50:oklch(98.7% .022 95.277);--color-gray-300:oklch(87.2% .01 258.338);--color-white:#fff;--spacing:.25rem;--text-xs:.75rem;--text-xs--line-height:calc(1/.75);--text-sm:.875rem;--text-sm--line-height:calc(1.25/.875);--text-base:1rem;--text-base--line-height: 1.5 ;--text-lg:1.125rem;--text-lg--line-height:calc(1.75/1.125);--text-xl:1.25rem;--text-xl--line-height:calc(1.75/1.25);--text-2xl:1.5rem;--text-2xl--line-height:calc(2/1.5);--text-3xl:1.875rem;--text-3xl--line-height: 1.2 ;--text-4xl:2.25rem;--text-4xl--line-height:calc(2.5/2.25);--text-5xl:3rem;--text-5xl--line-height:1;--font-weight-light:300;--font-weight-bold:700;--radius-lg:.5rem;--default-transition-duration:.15s;--default-transition-timing-function:cubic-bezier(.4,0,.2,1);--default-font-family:var(--font-sans);--default-mono-font-family:var(--font-mono)}}@layer base{*,:after,:before,::backdrop{box-sizing:border-box;border:0 solid;margin:0;padding:0}::file-selector-button{box-sizing:border-box;border:0 solid;margin:0;padding:0}html,:host{-webkit-text-size-adjust:100%;tab-size:4;line-height:1.5;font-family:var(--default-font-family,ui-sans-serif,system-ui,sans-serif,"Apple Color Emoji","Segoe UI Emoji","Segoe UI Symbol","Noto Color Emoji");font-feature-settings:var(--default-font-feature-settings,normal);font-variation-settings:var(--default-font-variation-settings,normal);-webkit-tap-highlight-color:transparent}hr{height:0;color:inherit;border-top-width:1px}abbr:where([title]){-webkit-text-decoration:underline dotted;text-decoration:underline dotted}h1,h2,h3,h4,h5,h6{font-size:inherit;font-weight:inherit}a{color:inherit;-webkit-text-decoration:inherit;text-decoration:inherit}b,strong{font-weight:bolder}code,kbd,samp,pre{font-family:var(--default-mono-font-family,ui-monospace,SFMono-Regular,Menlo,Monaco,Consolas,"Liberation Mono","Courier New",monospace);font-feature-settings:var(--default-mono-font-feature-settings,normal);font-variation-settings:var(--default-mono-font-variation-settings,normal);font-size:1em}small{font-size:80%}sub,sup{vertical-align:baseline;font-size:75%;line-height:0;position:relative}sub{bottom:-.25em}sup{top:-.5em}table{text-indent:0;border-color:inherit;border-collapse:collapse}:-moz-focusring{outline:auto}progress{vertical-align:baseline}summary{display:list-item}ol,ul,menu{list-style:none}img,svg,video,canvas,audio,iframe,embed,object{vertical-align:middle;display:block}img,video{max-width:100%;height:auto}button,input,select,optgroup,textarea{font:inherit;font-feature-settings:inherit;font-variation-settings:inherit;letter-spacing:inherit;color:inherit;opacity:1;background-color:#0000;border-radius:0}::file-selector-button{font:inherit;font-feature-settings:inherit;font-variation-settings:inherit;letter-spacing:inherit;color:inherit;opacity:1;background-color:#0000;border-radius:0}:where(select:is([multiple],[size])) optgroup{font-weight:bolder}:where(select:is([multiple],[size])) optgroup option{padding-inline-start:20px}::file-selector-button{margin-inline-end:4px}::placeholder{opacity:1}@supports (not ((-webkit-appearance:-apple-pay-button))) or (contain-intrinsic-size:1px){::placeholder{color:currentColor}@supports (color:color-mix(in lab,red,red)){::placeholder{color:color-mix(in oklab,currentcolor 50%,transparent)}}}textarea{resize:vertical}::-webkit-search-decoration{-webkit-appearance:none}::-webkit-date-and-time-value{min-height:1lh;text-align:inherit}::-webkit-datetime-edit{display:inline-flex}::-webkit-datetime-edit-fields-wrapper{padding:0}::-webkit-datetime-edit{padding-block:0}::-webkit-datetime-edit-year-field{padding-block:0}::-webkit-datetime-edit-month-field{padding-block:0}::-webkit-datetime-edit-day-field{padding-block:0}::-webkit-datetime-edit-hour-field{padding-block:0}::-webkit-datetime-edit-minute-field{padding-block:0}::-webkit-datetime-edit-second-field{padding-block:0}::-webkit-datetime-edit-millisecond-field{padding-block:0}::-webkit-datetime-edit-meridiem-field{padding-block:0}::-webkit-calendar-picker-indicator{line-height:1}:-moz-ui-invalid{box-shadow:none}button,input:where([type=button],[type=reset],[type=submit]){appearance:button}::file-selector-button{appearance:button}::-webkit-inner-spin-button{height:auto}::-webkit-outer-spin-button{height:auto}[hidden]:where(:not([hidden=until-found])){display:none!important}:root{--text:#0c0317;--background:#f6f2fd;--primary:#48277c;--secondary:#ec87ee;--accent:#e859d3;--font-inter:"Inter",sans-serif}.dark{--text:#f1e8fc;--background:#06020d;--primary:#a383d8;--secondary:#771178;--accent:#a61791}}@layer utilities{.fixed{position:fixed}.inset-0{inset:calc(var(--spacing)*0)}.z-20{z-index:20}.z-30{z-index:30}.m-1{margin:calc(var(--spacing)*1)}.mb-0{margin-bottom:calc(var(--spacing)*0)}.block{display:block}.flex{display:flex}.hidden{display:none}.h-1{height:calc(var(--spacing)*1)}.h-120{height:calc(var(--spacing)*120)}.h-130{height:calc(var(--spacing)*130)}.h-fit{height:fit-content}.h-full{height:100%}.w-1\/2{width:50%}.w-8\/10{width:80%}.w-56{width:calc(var(--spacing)*56)}.w-full{width:100%}.flex-1{flex:1}.transform{transform:var(--tw-rotate-x,)var(--tw-rotate-y,)var(--tw-rotate-z,)var(--tw-skew-x,)var(--tw-skew-y,)}.cursor-pointer{cursor:pointer}.resize{resize:both}.flex-col{flex-direction:column}.flex-row{flex-direction:row}.items-center{align-items:center}.justify-center{justify-content:center}.justify-end{justify-content:flex-end}.justify-start{justify-content:flex-start}.gap-0{gap:calc(var(--spacing)*0)}.gap-1{gap:calc(var(--spacing)*1)}.gap-4{gap:calc(var(--spacing)*4)}:where(.space-y-4>:not(:last-child)){--tw-space-y-reverse:0;margin-block-start:calc(calc(var(--spacing)*4)*var(--tw-space-y-reverse));margin-block-end:calc(calc(var(--spacing)*4)*calc(1 - var(--tw-space-y-reverse)))}:where(.space-x-6>:not(:last-child)){--tw-space-x-reverse:0;margin-inline-start:calc(calc(var(--spacing)*6)*var(--tw-space-x-reverse));margin-inline-end:calc(calc(var(--spacing)*6)*calc(1 - var(--tw-space-x-reverse)))}.rounded-lg{border-radius:var(--radius-lg)}.bg-\(--accent\){background-color:var(--accent)}.bg-\(--primary\){background-color:var(--primary)}.bg-\(--secondary\){background-color:var(--secondary)}.bg-\[\#000000\]\/90{background-color:oklab(0% none none/.9)}.bg-\[var\(--primary\)\]{background-color:var(--primary)}.bg-white{background-color:var(--color-white)}.bg-position-\[bottom\:30\%\]{background-position:30%}.object-contain{object-fit:contain}.p-4{padding:calc(var(--spacing)*4)}.p-6{padding:calc(var(--spacing)*6)}.px-4{padding-inline:calc(var(--spacing)*4)}.py-6{padding-block:calc(var(--spacing)*6)}.text-center{text-align:center}.text-left{text-align:left}.text-2xl{font-size:var(--text-2xl);line-height:var(--tw-leading,var(--text-2xl--line-height))}.text-3xl{font-size:var(--text-3xl);line-height:var(--tw-leading,var(--text-3xl--line-height))}.text-base{font-size:var(--text-base);line-height:var(--tw-leading,var(--text-base--line-height))}.text-lg{font-size:var(--text-lg);line-height:var(--tw-leading,var(--text-lg--line-height))}.text-sm{font-size:var(--text-sm);line-height:var(--tw-leading,var(--text-sm--line-height))}.text-xl{font-size:var(--text-xl);line-height:var(--tw-leading,var(--text-xl--line-height))}.text-xs{font-size:var(--text-xs);line-height:var(--tw-leading,var(--text-xs--line-height))}.font-bold{--tw-font-weight:var(--font-weight-bold);font-weight:var(--font-weight-bold)}.font-light{--tw-font-weight:var(--font-weight-light);font-weight:var(--font-weight-light)}.text-\(--primary\){color:var(--primary)}.text-\[var\(--background\)\]{color:var(--background)}.text-\[var\(--primary\)\]{color:var(--primary)}.text-\[var\(--text\)\]{color:var(--text)}.text-amber-50{color:var(--color-amber-50)}.text-white{color:var(--color-white)}.italic{font-style:italic}.underline{text-decoration-line:underline}.shadow-lg{--tw-shadow:0 10px 15px -3px var(--tw-shadow-color,#0000001a),0 4px 6px -4px var(--tw-shadow-color,#0000001a);box-shadow:var(--tw-inset-shadow),var(--tw-inset-ring-shadow),var(--tw-ring-offset-shadow),var(--tw-ring-shadow),var(--tw-shadow)}.transition{transition-property:color,background-color,border-color,outline-color,text-decoration-color,fill,stroke,--tw-gradient-from,--tw-gradient-via,--tw-gradient-to,opacity,box-shadow,transform,translate,scale,rotate,filter,-webkit-backdrop-filter,backdrop-filter,display,content-visibility,overlay,pointer-events;transition-timing-function:var(--tw-ease,var(--default-transition-timing-function));transition-duration:var(--tw-duration,var(--default-transition-duration))}.duration-300{--tw-duration:.3s;transition-duration:.3s}.ease-linear{--tw-ease:linear;transition-timing-function:linear}@media (hover:hover){.hover\:text-\[var\(--accent\)\]:hover{color:var(--accent)}.hover\:text-gray-300:hover{color:var(--color-gray-300)}}.focus\:outline-none:focus{--tw-outline-style:none;outline-style:none}@media (min-width:40rem){.sm\:h-8\/10{height:80%}.sm\:w-6\/10{width:60%}}@media (min-width:48rem){.md\:block{display:block}.md\:hidden{display:none}.md\:h-fit{height:fit-content}.md\:w-8\/10{width:80%}.md\:w-64{width:calc(var(--spacing)*64)}.md\:flex-row{flex-direction:row}.md\:justify-between{justify-content:space-between}.md\:gap-4{gap:calc(var(--spacing)*4)}.md\:bg-center{background-position:50%}.md\:p-8{padding:calc(var(--spacing)*8)}.md\:px-20{padding-inline:calc(var(--spacing)*20)}.md\:text-2xl{font-size:var(--text-2xl);line-height:var(--tw-leading,var(--text-2xl--line-height))}.md\:text-3xl{font-size:var(--text-3xl);line-height:var(--tw-leading,var(--text-3xl--line-height))}.md\:text-4xl{font-size:var(--text-4xl);line-height:var(--tw-leading,var(--text-4xl--line-height))}.md\:text-5xl{font-size:var(--text-5xl);line-height:var(--tw-leading,var(--text-5xl--line-height))}.md\:text-base{font-size:var(--text-base);line-height:var(--tw-leading,var(--text-base--line-height))}}@media (min-width:80rem){.xl\:h-fit{height:fit-content}.xl\:h-full{height:100%}.xl\:w-3\/5{width:60%}.xl\:w-full{width:100%}.xl\:px-30{padding-inline:calc(var(--spacing)*30)}.xl\:text-lg{font-size:var(--text-lg);line-height:var(--tw-leading,var(--text-lg--line-height))}}}@property --tw-rotate-x{syntax:"*";inherits:false}@property --tw-rotate-y{syntax:"*";inherits:false}@property --tw-rotate-z{syntax:"*";inherits:false}@property --tw-skew-x{syntax:"*";inherits:false}@property --tw-skew-y{syntax:"*";inherits:false}@property --tw-space-y-reverse{syntax:"*";inherits:false;initial-value:0}@property --tw-space-x-reverse{syntax:"*";inherits:false;initial-value:0}@property --tw-font-weight{syntax:"*";inherits:false}@property --tw-shadow{syntax:"*";inherits:false;initial-value:0 0 #0000}@property --tw-shadow-color{syntax:"*";inherits:false}@property --tw-shadow-alpha{syntax:"<percentage>";inherits:false;initial-value:100%}@property --tw-inset-shadow{syntax:"*";inherits:false;initial-value:0 0 #0000}@property --tw-inset-shadow-color{syntax:"*";inherits:false}@property --tw-inset-shadow-alpha{syntax:"<percentage>";inherits:false;initial-value:100%}@property --tw-ring-color{syntax:"*";inherits:false}@property --tw-ring-shadow{syntax:"*";inherits:false;initial-value:0 0 #0000}@property --tw-inset-ring-color{syntax:"*";inherits:false}@property --tw-inset-ring-shadow{syntax:"*";inherits:false;initial-value:0 0 #0000}@property --tw-ring-inset{syntax:"*";inherits:false}@property --tw-ring-offset-width{syntax:"<length>";inherits:false;initial-value:0}@property --tw-ring-offset-color{syntax:"*";inherits:false;initial-value:#fff}@property --tw-ring-offset-shadow{syntax:"*";inherits:false;initial-value:0 0 #0000}@property --tw-duration{syntax:"*";inherits:false}@property --tw-ease{syntax:"*";inherits:false}.fade-enter-active[data-v-46d65932],.fade-leave-active[data-v-46d65932]{transition:all .3s ease}.fade-enter-from[data-v-46d65932],.fade-leave-to[data-v-46d65932]{opacity:0;transform:scale(.8) rotate(90deg)}.fade-enter-to[data-v-46d65932],.fade-leave-from[data-v-46d65932]{opacity:1;transform:scale(1) rotate(0)}.parallax[data-v-1942facc]{background-image:url(/Erika-website/Carretera.jpg);background-attachment:fixed;background-size:cover;background-position:center}.parallax[data-v-d59cb76f]{background-image:url(/Erika-website/camara.jpg);background-attachment:fixed;background-size:cover}.header[data-v-bf862010]{position:fixed;top:0;left:0;z-index:50;width:100%}

diff --git a/index.html b/index.html
@@ -5,8 +5,8 @@
     <link rel="icon" type="image/svg+xml" href="/Erika-website/vite.svg" />
     <meta name="viewport" content="width=device-width, initial-scale=1.0" />
     <title>Vite + Vue + TS</title>
-    <script type="module" crossorigin src="/Erika-website/assets/index-Cb5h8vyN.js"></script>
-    <link rel="stylesheet" crossorigin href="/Erika-website/assets/index-D2q9Wac6.css">
+    <script type="module" crossorigin src="/Erika-website/assets/index-CXXjEYgi.js"></script>
+    <link rel="stylesheet" crossorigin href="/Erika-website/assets/index-CyH0TvZI.css">
   </head>
   <body>
     <div id="app"></div>
